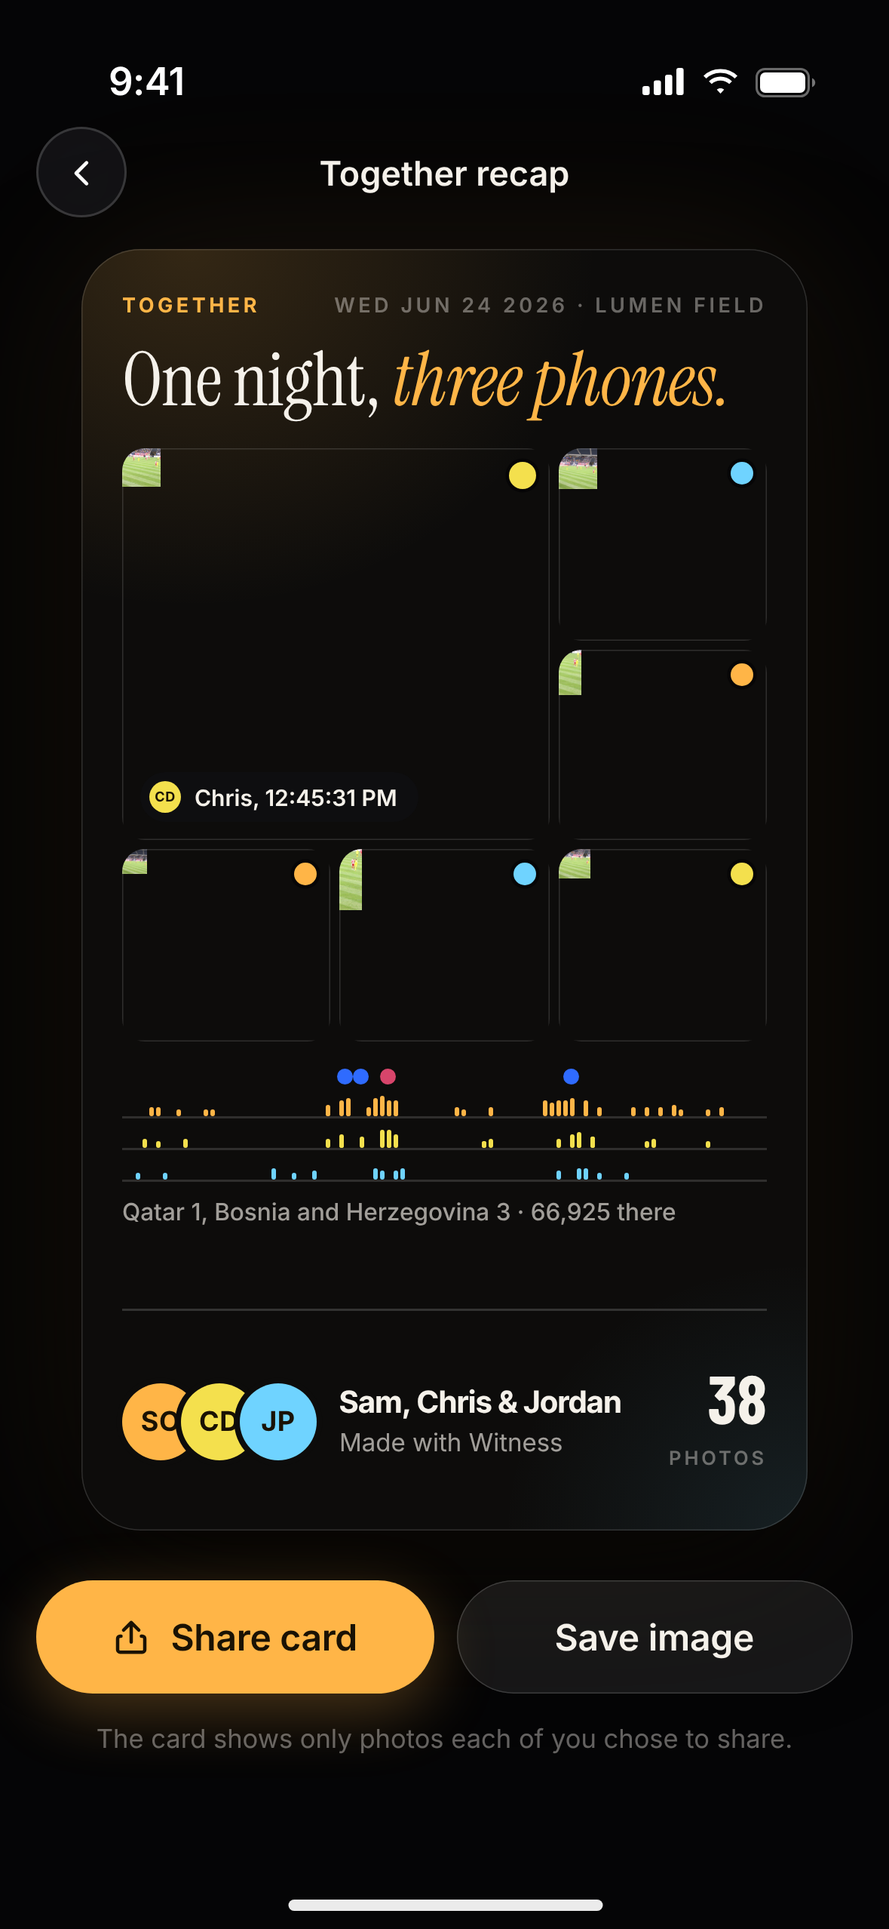
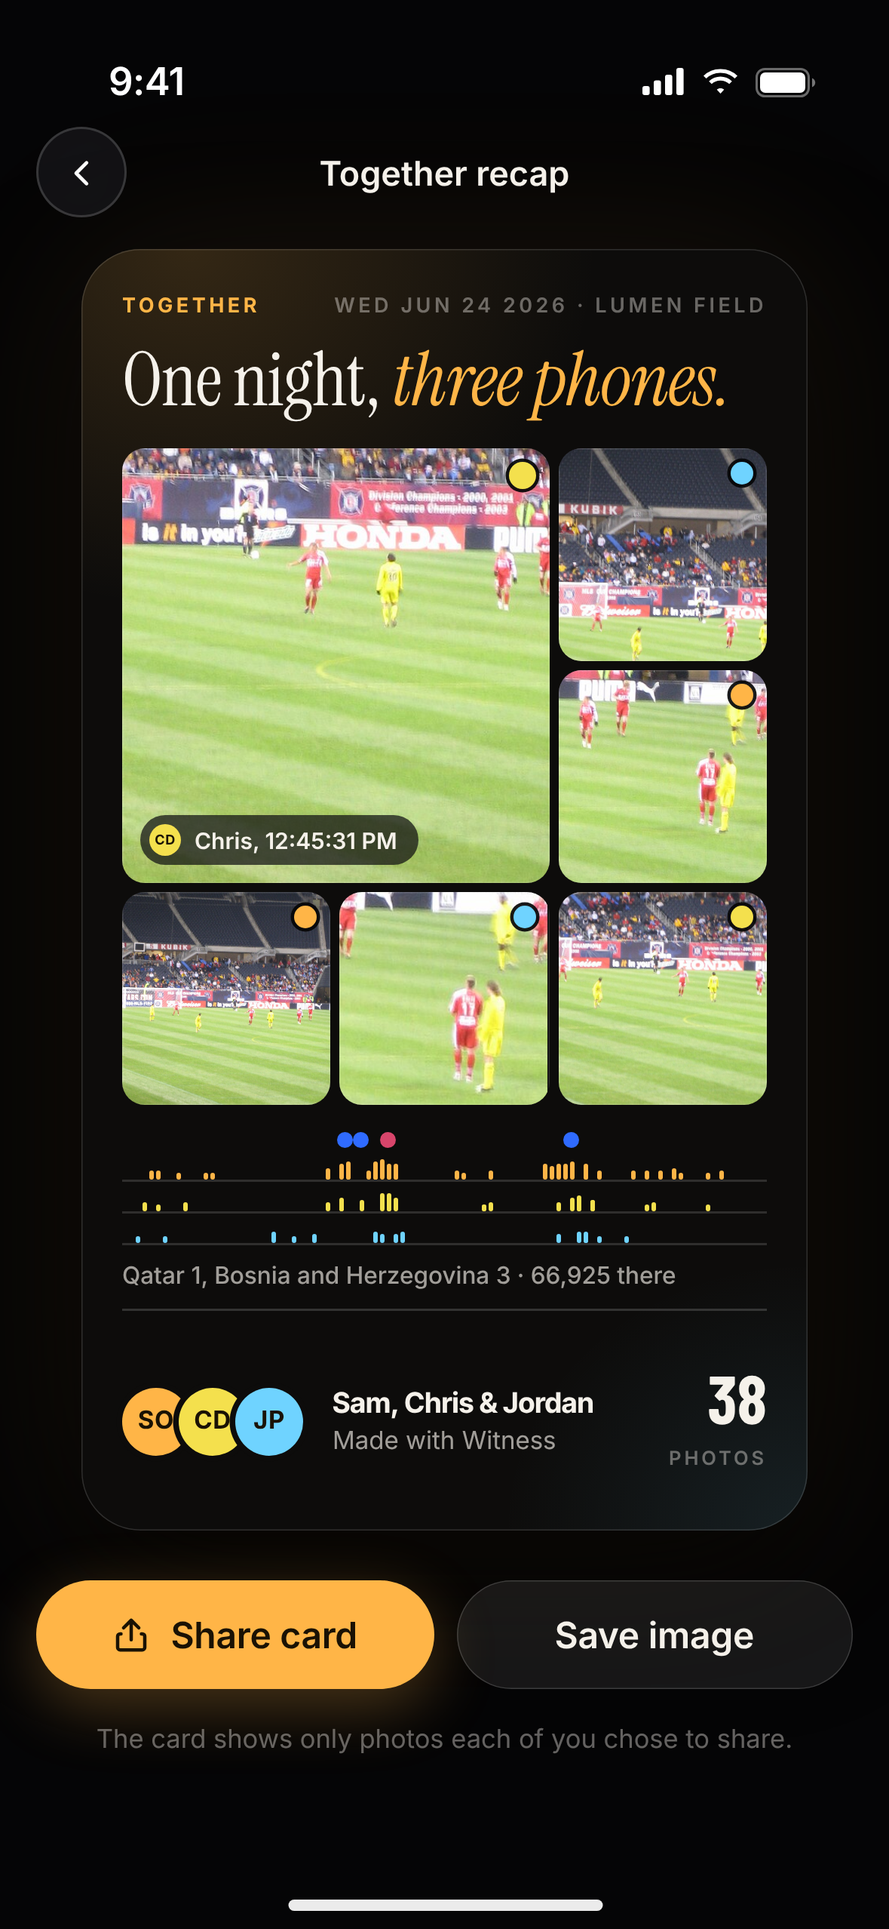
Social mockups: Together and final renders
Claude-Session: https://claude.ai/code/session_01YKCsRGYnDsF5Pryete24Wa

diff --git a/mockups/social/features/together/v3-pick-photos.html b/mockups/social/features/together/v3-pick-photos.html
@@ -59,7 +59,7 @@ i{font-style:normal}
 <div class="vis"><span class="a"><span class="av" style="width:20px;height:20px;background:#f4e04d;font-size:8px;">CD</span><span class="av" style="width:20px;height:20px;background:#6fd3ff;font-size:8px;">JP</span></span><span style="margin-left:6px">Visible to Chris and Jordan</span></div>
 <div class="chips"><span class="chip on">Suggested <small>16</small></span><span class="chip">During play <small>38</small></span><span class="chip">All <small>104</small></span></div>
 <div class="grid"><div class="gh"><span>Suggested · best of your night</span><em>12 selected</em></div><div class="gr"><div class="tile on"><i class="th " style="width:88px;height:88px;background:url(../../../photos/soldier-soccer.jpg) -85.9px -161.4px/209.5px 279.4px no-repeat;"></i><span class="tm">12:29:12</span><span class="ck"><svg width="12" height="12" viewBox="0 0 24 24" fill="none" stroke="#1a1204" stroke-width="3.4" stroke-linecap="round" stroke-linejoin="round"><path d="M5 12.5l4.5 4.5L19 7.5"/></svg></span></div><div class="tile on"><i class="th " style="width:88px;height:88px;background:url(../../../photos/soldier-soccer.jpg) -44.0px -98.1px/195.6px 260.8px no-repeat;"></i><span class="tm">12:29:40</span><span class="ck"><svg width="12" height="12" viewBox="0 0 24 24" fill="none" stroke="#1a1204" stroke-width="3.4" stroke-linecap="round" stroke-linejoin="round"><path d="M5 12.5l4.5 4.5L19 7.5"/></svg></span></div><div class="tile on"><i class="th " style="width:88px;height:88px;background:url(../../../photos/soldier-soccer.jpg) -11.0px -47.0px/110.0px 146.7px no-repeat;"></i><span class="tm">12:30:05</span><span class="ck"><svg width="12" height="12" viewBox="0 0 24 24" fill="none" stroke="#1a1204" stroke-width="3.4" stroke-linecap="round" stroke-linejoin="round"><path d="M5 12.5l4.5 4.5L19 7.5"/></svg></span></div><div class="tile "><i class="th " style="width:88px;height:88px;background:url(../../../photos/soldier-soccer.jpg) -264.0px -294.0px/352.0px 469.4px no-repeat;"></i><span class="tm">12:33:40</span><span class="ck"></span></div><div class="tile on"><i class="th " style="width:88px;height:88px;background:url(../../../photos/soldier-soccer.jpg) -400.9px -418.9px/488.9px 652.0px no-repeat;"></i><span class="tm">12:34:15</span><span class="ck"><svg width="12" height="12" viewBox="0 0 24 24" fill="none" stroke="#1a1204" stroke-width="3.4" stroke-linecap="round" stroke-linejoin="round"><path d="M5 12.5l4.5 4.5L19 7.5"/></svg></span></div><div class="tile on"><i class="th " style="width:88px;height:88px;background:url(../../../photos/soldier-soccer.jpg) -52.8px -120.3px/176.0px 234.7px no-repeat;"></i><span class="tm">12:34:51</span><span class="ck"><svg width="12" height="12" viewBox="0 0 24 24" fill="none" stroke="#1a1204" stroke-width="3.4" stroke-linecap="round" stroke-linejoin="round"><path d="M5 12.5l4.5 4.5L19 7.5"/></svg></span></div><div class="tile on"><i class="th " style="width:88px;height:88px;background:url(../../../photos/soldier-soccer.jpg) -132.0px -117.4px/220.0px 293.4px no-repeat;"></i><span class="tm">12:45:41</span><span class="ck"><svg width="12" height="12" viewBox="0 0 24 24" fill="none" stroke="#1a1204" stroke-width="3.4" stroke-linecap="round" stroke-linejoin="round"><path d="M5 12.5l4.5 4.5L19 7.5"/></svg></span></div><div class="tile "><i class="th " style="width:88px;height:88px;background:url(../../../photos/soldier-soccer.jpg) -73.3px -229.8px/293.3px 391.2px no-repeat;"></i><span class="tm">12:45:47</span><span class="ck"></span></div><div class="tile on"><i class="th " style="width:88px;height:88px;background:url(../../../photos/soldier-soccer.jpg) -264.0px -218.9px/352.0px 469.4px no-repeat;"></i><span class="tm">12:46:02</span><span class="ck"><svg width="12" height="12" viewBox="0 0 24 24" fill="none" stroke="#1a1204" stroke-width="3.4" stroke-linecap="round" stroke-linejoin="round"><path d="M5 12.5l4.5 4.5L19 7.5"/></svg></span></div><div class="tile on"><i class="th " style="width:88px;height:88px;background:url(../../../photos/soldier-soccer.jpg) -106.9px -106.9px/251.4px 335.3px no-repeat;"></i><span class="tm">12:46:19</span><span class="ck"><svg width="12" height="12" viewBox="0 0 24 24" fill="none" stroke="#1a1204" stroke-width="3.4" stroke-linecap="round" stroke-linejoin="round"><path d="M5 12.5l4.5 4.5L19 7.5"/></svg></span></div><div class="tile on"><i class="th " style="width:88px;height:88px;background:url(../../../photos/soldier-soccer.jpg) 0.0px -117.4px/220.0px 293.4px no-repeat;"></i><span class="tm">12:46:44</span><span class="ck"><svg width="12" height="12" viewBox="0 0 24 24" fill="none" stroke="#1a1204" stroke-width="3.4" stroke-linecap="round" stroke-linejoin="round"><path d="M5 12.5l4.5 4.5L19 7.5"/></svg></span></div><div class="tile on"><i class="th " style="width:88px;height:88px;background:url(../../../photos/soldier-soccer.jpg) -44.0px -146.7px/176.0px 234.7px no-repeat;"></i><span class="tm">12:47:30</span><span class="ck"><svg width="12" height="12" viewBox="0 0 24 24" fill="none" stroke="#1a1204" stroke-width="3.4" stroke-linecap="round" stroke-linejoin="round"><path d="M5 12.5l4.5 4.5L19 7.5"/></svg></span></div><div class="tile "><i class="th " style="width:88px;height:88px;background:url(../../../photos/soldier-soccer.jpg) -4.9px -5.6px/97.8px 130.4px no-repeat;"></i><span class="tm">12:48:05</span><span class="ck"></span></div><div class="tile on"><i class="th " style="width:88px;height:88px;background:url(../../../photos/soldier-soccer.jpg) 0.0px -49.9px/176.0px 234.7px no-repeat;"></i><span class="tm">12:52:10</span><span class="ck"><svg width="12" height="12" viewBox="0 0 24 24" fill="none" stroke="#1a1204" stroke-width="3.4" stroke-linecap="round" stroke-linejoin="round"><path d="M5 12.5l4.5 4.5L19 7.5"/></svg></span></div><div class="tile "><i class="th " style="width:88px;height:88px;background:url(../../../photos/soldier-soccer.jpg) -44.0px -98.1px/195.6px 260.8px no-repeat;"></i><span class="tm">1:13:22</span><span class="ck"></span></div><div class="tile on"><i class="th " style="width:88px;height:88px;background:url(../../../photos/soldier-soccer.jpg) -264.0px -294.0px/352.0px 469.4px no-repeat;"></i><span class="tm">1:14:02</span><span class="ck"><svg width="12" height="12" viewBox="0 0 24 24" fill="none" stroke="#1a1204" stroke-width="3.4" stroke-linecap="round" stroke-linejoin="round"><path d="M5 12.5l4.5 4.5L19 7.5"/></svg></span></div></div><div class="gh" style="margin-top:6px"><span>The rest of your night</span><em>0 selected</em></div><div class="gr"><div class="tile "><i class="th " style="width:88px;height:88px;background:url(../../../photos/soldier-soccer.jpg) -4.9px -5.6px/97.8px 130.4px no-repeat;"></i><span class="tm">2:01:10</span><span class="ck"></span></div><div class="tile "><i class="th " style="width:88px;height:88px;background:url(../../../photos/soldier-soccer.jpg) -4.9px -21.2px/97.8px 130.4px no-repeat;"></i><span class="tm">2:02:44</span><span class="ck"></span></div><div class="tile "><i class="th " style="width:88px;height:88px;background:url(../../../photos/soldier-soccer.jpg) -44.0px -146.7px/176.0px 234.7px no-repeat;"></i><span class="tm">2:04:30</span><span class="ck"></span></div><div class="tile "><i class="th " style="width:88px;height:88px;background:url(../../../photos/soldier-soccer.jpg) 0.0px -117.4px/220.0px 293.4px no-repeat;"></i><span class="tm">2:06:15</span><span class="ck"></span></div><div class="tile "><i class="th " style="width:88px;height:88px;background:url(../../../photos/soldier-soccer.jpg) -106.9px -106.9px/251.4px 335.3px no-repeat;"></i><span class="tm">2:09:02</span><span class="ck"></span></div><div class="tile "><i class="th " style="width:88px;height:88px;background:url(../../../photos/soldier-soccer.jpg) 0.0px -49.9px/176.0px 234.7px no-repeat;"></i><span class="tm">2:10:40</span><span class="ck"></span></div><div class="tile "><i class="th " style="width:88px;height:88px;background:url(../../../photos/soldier-soccer.jpg) -264.0px -218.9px/352.0px 469.4px no-repeat;"></i><span class="tm">2:14:18</span><span class="ck"></span></div><div class="tile "><i class="th " style="width:88px;height:88px;background:url(../../../photos/soldier-soccer.jpg) -52.8px -120.3px/176.0px 234.7px no-repeat;"></i><span class="tm">2:18:50</span><span class="ck"></span></div></div></div>
-<div class="bar"><div class="note"><svg width="14" height="14" viewBox="0 0 24 24" fill="none" stroke="currentColor" stroke-width="2" stroke-linecap="round" stroke-linejoin="round"><rect x="5" y="10.5" width="14" height="10" rx="2.5"/><path d="M8.5 10.5V8a3.5 3.5 0 0 1 7 0v2.5"/></svg><div><b>Everyone sees only what each person shares.</b> Remove any time.</div></div><div class="btn pri">Share 12 of your 104 photos</div></div>
+<div class="bar"><div class="note"><svg width="14" height="14" viewBox="0 0 24 24" fill="none" stroke="currentColor" stroke-width="2" stroke-linecap="round" stroke-linejoin="round"><rect x="5" y="10.5" width="14" height="10" rx="2.5"/><path d="M8.5 10.5V8a3.5 3.5 0 0 1 7 0v2.5"/></svg><div><b>Everyone sees only what each person shares.</b><br>Remove any time.</div></div><div class="btn pri">Share 12 of your 104 photos</div></div>
 </div>
 <script src="../../../kit/kit.js"></script>
 </body></html>

diff --git a/mockups/social/features/together/v4-recap-card.html b/mockups/social/features/together/v4-recap-card.html
@@ -44,7 +44,7 @@ i{font-style:normal}
 .cap{font:500 10.5px/1.3 var(--f-ui);color:var(--text-2);margin-top:5px}
 .foot{position:absolute;left:18px;right:18px;bottom:0;height:98px;border-top:.5px solid var(--line-2);display:flex;align-items:center;gap:12px}
 .foot .a{display:flex}.foot .a .av{margin-right:-5px;box-shadow:0 0 0 2.5px #0d0c0b}
-.foot .n{font:600 13.5px/1.2 var(--f-tight);margin-left:6px}
+.foot .n{font:600 12.5px/1.2 var(--f-tight);margin-left:6px;white-space:nowrap}
 .foot .n span{display:block;font:400 11px/1.2 var(--f-ui);color:var(--text-2);margin-top:3px}
 .foot .st{margin-left:auto;text-align:right}
 .foot .st b{font:700 30px/.9 var(--f-cond);color:var(--text);display:block}
@@ -62,7 +62,7 @@ i{font-style:normal}
 <div class="mos"><div class="t big"><i class="th " style="width:189px;height:192px;background:url(../../../photos/soldier-soccer.jpg) -184.5px -345.1px/450.0px 600.1px no-repeat;"><i class=dot style=background:#f4e04d></i></i><span class="by"><span class="av" style="width:14px;height:14px;background:#f4e04d;font-size:6px;">CD</span>Chris, 12:45:31 PM</span></div><div class="t "><i class="th " style="width:92px;height:94px;background:url(../../../photos/soldier-soccer.jpg) -46.0px -101.6px/204.4px 272.6px no-repeat;"><i class=dot style=background:#6fd3ff></i></i></div><div class="t "><i class="th " style="width:92px;height:94px;background:url(../../../photos/soldier-soccer.jpg) -276.0px -306.3px/368.0px 490.8px no-repeat;"><i class=dot style=background:#ffb547></i></i></div><div class="t "><i class="th " style="width:92px;height:94px;background:url(../../../photos/soldier-soccer.jpg) -11.5px -48.1px/115.0px 153.4px no-repeat;"><i class=dot style=background:#ffb547></i></i></div><div class="t "><i class="th " style="width:92px;height:94px;background:url(../../../photos/soldier-soccer.jpg) -419.1px -436.9px/511.1px 681.6px no-repeat;"><i class=dot style=background:#6fd3ff></i></i></div><div class="t "><i class="th " style="width:92px;height:94px;background:url(../../../photos/soldier-soccer.jpg) -55.2px -124.8px/184.0px 245.4px no-repeat;"><i class=dot style=background:#f4e04d></i></i></div></div>
 <div class="tl"><div class="tr" style="top:8px"><i class="base"></i><i class="tk" style="left:24px;height:3px;background:#ffb547"></i><i class="tk" style="left:39px;height:3px;background:#ffb547"></i><i class="tk" style="left:36px;height:3px;background:#ffb547"></i><i class="tk" style="left:15px;height:4px;background:#ffb547"></i><i class="tk" style="left:12px;height:4px;background:#ffb547"></i><i class="tk" style="left:90px;height:4px;background:#ffb547"></i><i class="tk" style="left:96px;height:7px;background:#ffb547"></i><i class="tk" style="left:90px;height:5px;background:#ffb547"></i><i class="tk" style="left:99px;height:8px;background:#ffb547"></i><i class="tk" style="left:99px;height:5px;background:#ffb547"></i><i class="tk" style="left:108px;height:4px;background:#ffb547"></i><i class="tk" style="left:120px;height:6px;background:#ffb547"></i><i class="tk" style="left:111px;height:5px;background:#ffb547"></i><i class="tk" style="left:114px;height:9px;background:#ffb547"></i><i class="tk" style="left:111px;height:8px;background:#ffb547"></i><i class="tk" style="left:117px;height:7px;background:#ffb547"></i><i class="tk" style="left:117px;height:5px;background:#ffb547"></i><i class="tk" style="left:111px;height:6px;background:#ffb547"></i><i class="tk" style="left:120px;height:7px;background:#ffb547"></i><i class="tk" style="left:147px;height:4px;background:#ffb547"></i><i class="tk" style="left:150px;height:3px;background:#ffb547"></i><i class="tk" style="left:162px;height:4px;background:#ffb547"></i><i class="tk" style="left:192px;height:7px;background:#ffb547"></i><i class="tk" style="left:198px;height:8px;background:#ffb547"></i><i class="tk" style="left:204px;height:5px;background:#ffb547"></i><i class="tk" style="left:210px;height:4px;background:#ffb547"></i><i class="tk" style="left:195px;height:7px;background:#ffb547"></i><i class="tk" style="left:189px;height:6px;background:#ffb547"></i><i class="tk" style="left:186px;height:7px;background:#ffb547"></i><i class="tk" style="left:204px;height:7px;background:#ffb547"></i><i class="tk" style="left:246px;height:3px;background:#ffb547"></i><i class="tk" style="left:237px;height:4px;background:#ffb547"></i><i class="tk" style="left:231px;height:4px;background:#ffb547"></i><i class="tk" style="left:243px;height:5px;background:#ffb547"></i><i class="tk" style="left:225px;height:4px;background:#ffb547"></i><i class="tk" style="left:258px;height:3px;background:#ffb547"></i><i class="tk" style="left:264px;height:4px;background:#ffb547"></i></div><div class="tr" style="top:22px"><i class="base"></i><i class="tk" style="left:9px;height:4px;background:#f4e04d"></i><i class="tk" style="left:27px;height:4px;background:#f4e04d"></i><i class="tk" style="left:15px;height:3px;background:#f4e04d"></i><i class="tk" style="left:105px;height:5px;background:#f4e04d"></i><i class="tk" style="left:96px;height:5px;background:#f4e04d"></i><i class="tk" style="left:96px;height:6px;background:#f4e04d"></i><i class="tk" style="left:90px;height:4px;background:#f4e04d"></i><i class="tk" style="left:120px;height:6px;background:#f4e04d"></i><i class="tk" style="left:114px;height:8px;background:#f4e04d"></i><i class="tk" style="left:117px;height:5px;background:#f4e04d"></i><i class="tk" style="left:117px;height:8px;background:#f4e04d"></i><i class="tk" style="left:162px;height:4px;background:#f4e04d"></i><i class="tk" style="left:159px;height:3px;background:#f4e04d"></i><i class="tk" style="left:159px;height:3px;background:#f4e04d"></i><i class="tk" style="left:207px;height:5px;background:#f4e04d"></i><i class="tk" style="left:207px;height:5px;background:#f4e04d"></i><i class="tk" style="left:201px;height:7px;background:#f4e04d"></i><i class="tk" style="left:201px;height:4px;background:#f4e04d"></i><i class="tk" style="left:198px;height:6px;background:#f4e04d"></i><i class="tk" style="left:192px;height:4px;background:#f4e04d"></i><i class="tk" style="left:258px;height:3px;background:#f4e04d"></i><i class="tk" style="left:231px;height:3px;background:#f4e04d"></i><i class="tk" style="left:234px;height:4px;background:#f4e04d"></i></div><div class="tr" style="top:36px"><i class="base"></i><i class="tk" style="left:6px;height:3px;background:#6fd3ff"></i><i class="tk" style="left:18px;height:3px;background:#6fd3ff"></i><i class="tk" style="left:66px;height:5px;background:#6fd3ff"></i><i class="tk" style="left:84px;height:4px;background:#6fd3ff"></i><i class="tk" style="left:75px;height:3px;background:#6fd3ff"></i><i class="tk" style="left:111px;height:5px;background:#6fd3ff"></i><i class="tk" style="left:120px;height:4px;background:#6fd3ff"></i><i class="tk" style="left:123px;height:5px;background:#6fd3ff"></i><i class="tk" style="left:114px;height:4px;background:#6fd3ff"></i><i class="tk" style="left:204px;height:5px;background:#6fd3ff"></i><i class="tk" style="left:201px;height:5px;background:#6fd3ff"></i><i class="tk" style="left:192px;height:4px;background:#6fd3ff"></i><i class="tk" style="left:210px;height:3px;background:#6fd3ff"></i><i class="tk" style="left:222px;height:3px;background:#6fd3ff"></i><i class="tk" style="left:204px;height:4px;background:#6fd3ff"></i></div><i class="g" style="left:98px;background:#2f6bff"></i><i class="g" style="left:105px;background:#2f6bff"></i><i class="g" style="left:117px;background:#d8456b"></i><i class="g" style="left:198px;background:#2f6bff"></i></div>
 <div class="cap">Qatar 1, Bosnia and Herzegovina 3 · 66,925 there</div>
-<div class="foot"><div class="a"><span class="av" style="width:34px;height:34px;background:#ffb547;font-size:12px;">SO</span><span class="av" style="width:34px;height:34px;background:#f4e04d;font-size:12px;">CD</span><span class="av" style="width:34px;height:34px;background:#6fd3ff;font-size:12px;">JP</span></div><div class="n">Sam, Chris &amp; Jordan<span>Made with Witness</span></div><div class="st"><b>38</b><span>PHOTOS</span></div></div></div>
+<div class="foot"><div class="a"><span class="av" style="width:30px;height:30px;background:#ffb547;font-size:11px;">SO</span><span class="av" style="width:30px;height:30px;background:#f4e04d;font-size:11px;">CD</span><span class="av" style="width:30px;height:30px;background:#6fd3ff;font-size:11px;">JP</span></div><div class="n">Sam, Chris &amp; Jordan<span>Made with Witness</span></div><div class="st"><b>38</b><span>PHOTOS</span></div></div></div>
 <div class="acts"><div class="btn pri"><svg width="18" height="18" viewBox="0 0 24 24" fill="none" stroke="currentColor" stroke-width="2" stroke-linecap="round" stroke-linejoin="round"><path d="M12 15V3.5M7.5 8 12 3.5 16.5 8"/><path d="M6 11.5H5.5A1.5 1.5 0 0 0 4 13v6.5A1.5 1.5 0 0 0 5.5 21h13a1.5 1.5 0 0 0 1.5-1.5V13a1.5 1.5 0 0 0-1.5-1.5H18"/></svg>Share card</div><div class="btn sec">Save image</div></div>
 <div class="fine">The card shows only photos each of you chose to share.</div>
 <script src="../../../kit/kit.js"></script>

diff --git a/mockups/social/features/together/build.py b/mockups/social/features/together/build.py
@@ -279,7 +279,7 @@ body3=f'''<div class="bgfeed"><div class="abs" style="left:0;right:0;top:0;heigh
 <div class="vis"><span class="a">{av('Chris',20,fs=8)}{av('Jordan',20,fs=8)}</span><span style="margin-left:6px">Visible to Chris and Jordan</span></div>
 <div class="chips"><span class="chip on">Suggested <small>16</small></span><span class="chip">During play <small>38</small></span><span class="chip">All <small>104</small></span></div>
 <div class="grid"><div class="gh"><span>Suggested · best of your night</span><em>12 selected</em></div><div class="gr">{t1}</div><div class="gh" style="margin-top:6px"><span>The rest of your night</span><em>0 selected</em></div><div class="gr">{t2}</div></div>
-<div class="bar"><div class="note">{LOCK}<div><b>Everyone sees only what each person shares.</b> Remove any time.</div></div><div class="btn pri">Share 12 of your 104 photos</div></div>
+<div class="bar"><div class="note">{LOCK}<div><b>Everyone sees only what each person shares.</b><br>Remove any time.</div></div><div class="btn pri">Share 12 of your 104 photos</div></div>
 </div>'''
 write('v3-pick-photos.html','Pick photos',css3,body3)
 
@@ -311,7 +311,7 @@ css4='''
 .cap{font:500 10.5px/1.3 var(--f-ui);color:var(--text-2);margin-top:5px}
 .foot{position:absolute;left:18px;right:18px;bottom:0;height:98px;border-top:.5px solid var(--line-2);display:flex;align-items:center;gap:12px}
 .foot .a{display:flex}.foot .a .av{margin-right:-5px;box-shadow:0 0 0 2.5px #0d0c0b}
-.foot .n{font:600 13.5px/1.2 var(--f-tight);margin-left:6px}
+.foot .n{font:600 12.5px/1.2 var(--f-tight);margin-left:6px;white-space:nowrap}
 .foot .n span{display:block;font:400 11px/1.2 var(--f-ui);color:var(--text-2);margin-top:3px}
 .foot .st{margin-left:auto;text-align:right}
 .foot .st b{font:700 30px/.9 var(--f-cond);color:var(--text);display:block}
@@ -346,7 +346,7 @@ body4=f'''<div class="nav"><div class="btn-circle glass">{BACK}</div><span class
 <div class="mos">{mt('big','play','Chris')}{mt('','crowd','Jordan')}{mt('','playR','Sam')}{mt('','wide','Sam')}{mt('','pair','Jordan')}{mt('','mid','Chris')}</div>
 <div class="tl">{tl2}{gd2}</div>
 <div class="cap">Qatar 1, Bosnia and Herzegovina 3 · 66,925 there</div>
-<div class="foot"><div class="a">{av('Sam',34,fs=12)}{av('Chris',34,fs=12)}{av('Jordan',34,fs=12)}</div><div class="n">Sam, Chris &amp; Jordan<span>Made with Witness</span></div><div class="st"><b>38</b><span>PHOTOS</span></div></div></div>
+<div class="foot"><div class="a">{av('Sam',30,fs=11)}{av('Chris',30,fs=11)}{av('Jordan',30,fs=11)}</div><div class="n">Sam, Chris &amp; Jordan<span>Made with Witness</span></div><div class="st"><b>38</b><span>PHOTOS</span></div></div></div>
 <div class="acts"><div class="btn pri">{SHARE.format(s=18)}Share card</div><div class="btn sec">Save image</div></div>
 <div class="fine">The card shows only photos each of you chose to share.</div>'''
 body4=body4.replace('<div class="mos">','<div class="mos">')

diff --git a/mockups/social/features/together/NOTES.md b/mockups/social/features/together/NOTES.md
@@ -1,0 +1,7 @@
+Idea: Together. People who went to the same game merge their night into one match report. The match-report layout (pinned game-clock timeline, spine of key-play cards) gains a second layer: each person's photos sit on the shared clock in their own color (Sam amber, Chris yellow, Jordan blue), with a name and a dot on every thumbnail.
+Why: a night at the game is shared, but today everyone's photos are stranded in separate camera rolls. "Chris took the best one" is the line friends send each other; the merged recap is a share card that markets Witness to the other two people.
+First use / empty state: appears only after a game is found (v1) and only if someone else is detected (a tagged companion or an opened invite link). No one detected: nothing shows; the game page offers "Invite someone who was there". A Together memory with nobody sharing yet is just your normal report with a muted "Waiting for Chris and Jordan" track.
+Privacy: default share is NOTHING (v1). Photos stay on the phone; only photos the person picks (v3) are uploaded, and only to people in that memory. "Everyone sees only what each person shares. Remove any time." Removing a photo removes it from everyone's view and the recap. Matching stays on-device; the server only sees the minute and the photo the person chose to share. Kids' accounts never appear.
+Plugs into: game page (invite sheet after discovery, "Together" avatar pill replaces the share slot in the match-report nav), match report (extra tracks, combined strips, "Who was where" from seat data), You tab (a Together shelf), Timeline (small stacked avatars on the game card).
+Minimum backend: identity (Apple sign in, name, color), memory = {gameId, members[]}, invite link, per-member shared photo set (object storage + timestamp, no GPS), membership and revoke endpoints, recap card render on-device from shared photos.
+Files: v1 invite, v2 shared report at 42', v3 pick-photos sheet, v4 merged recap card (extra screen so the sheet and the card each get a full screen). build.py regenerates all four.
